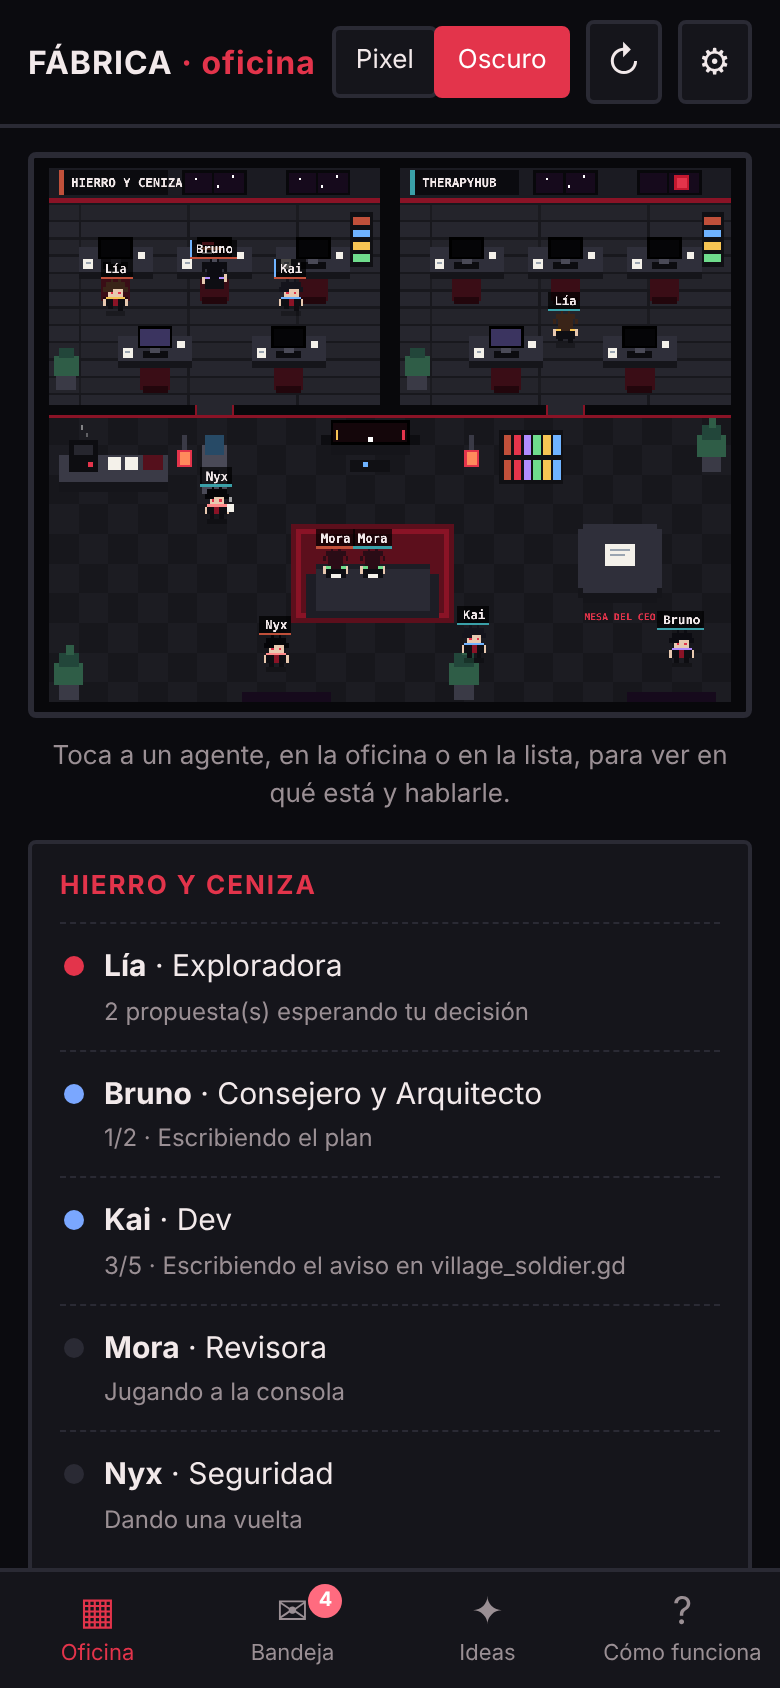
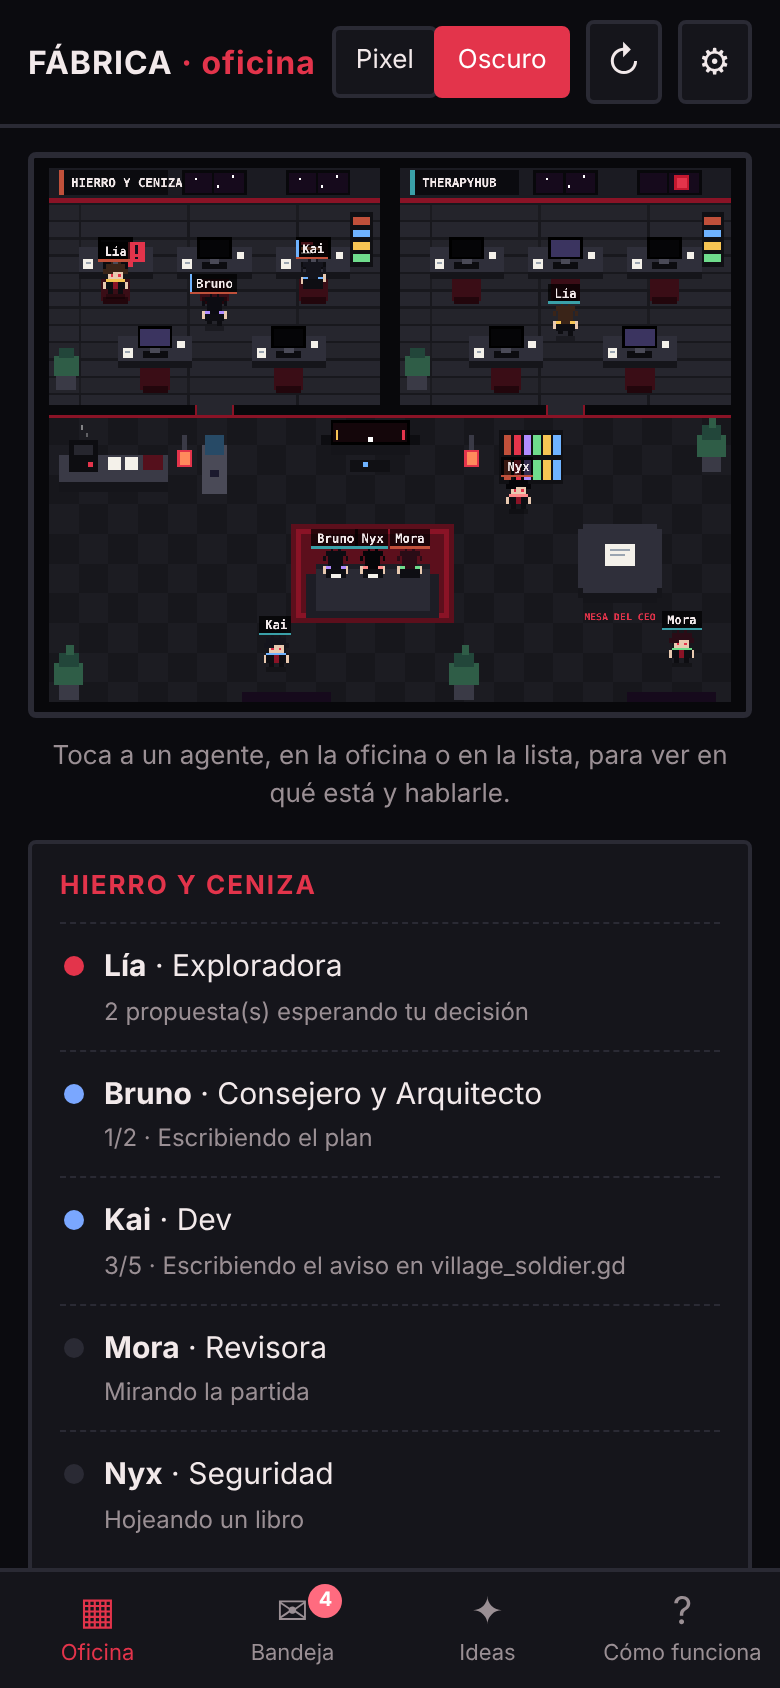
Ignorar en la oficina todo lo que no venga de la cuenta dueña

diff --git a/app.js b/app.js
@@ -64,22 +64,23 @@ async function load() {
   try {
     for (const R of REPOS) {
       const [issues, pulls] = await Promise.all([gh(`${R.name}/issues?state=open&per_page=100`), gh(`${R.name}/pulls?state=open&per_page=50`)]);
-      const fab = issues.filter(i => !i.pull_request && i.labels.some(l => l.name.startsWith('fabrica:')));
+      const fab = issues.filter(i => !i.pull_request && i.user && i.user.login === OWNER && i.labels.some(l => l.name.startsWith('fabrica:')));
       const bit = fab.find(i => has(i, 'bitacora'));
       const estados = {}; let notas = [];
       if (bit) {
         const since = new Date(Date.now() - 7 * 864e5).toISOString();
         const cs = await gh(`${R.name}/issues/${bit.number}/comments?since=${since}&per_page=100`);
         for (const c of cs) {
+          if (!c.user || c.user.login !== OWNER) continue; // solo lo escrito por la cuenta dueña cuenta como estado o bitácora
           const m = (c.body || '').match(/<!--\s*fabrica-estado:(\w+)\s*-->/);
           if (m) estados[m[1]] = {...parseEstado(c.body), updated: c.updated_at};
           else notas.push({at: c.created_at, body: c.body});
         }
         notas = notas.slice(-3).reverse();
       }
-      const prs = pulls.filter(p => p.head.ref.startsWith('fabrica/')).map(p => ({n: p.number, title: p.title, url: p.html_url, at: p.updated_at, ref: p.head.ref, veredicto: ''}));
+      const prs = pulls.filter(p => p.head.ref.startsWith('fabrica/') && p.user && p.user.login === OWNER && p.head.repo && p.head.repo.full_name === `${OWNER}/${R.name}`).map(p => ({n: p.number, title: p.title, url: p.html_url, at: p.updated_at, ref: p.head.ref, veredicto: ''}));
       for (const p of prs.slice(0, 3)) {
-        const rev = (await gh(`${R.name}/issues/${p.n}/comments?per_page=100`)).reverse().find(c => /VEREDICTO:/.test(c.body || ''));
+        const rev = (await gh(`${R.name}/issues/${p.n}/comments?per_page=100`)).reverse().find(c => c.user && c.user.login === OWNER && /VEREDICTO:/.test(c.body || ''));
         if (rev) p.veredicto = (rev.body.match(/VEREDICTO:\s*([A-ZÁÉÍÓÚÑ ]+)/) || [])[1] || '';
       }
       const slim = i => ({n: i.number, title: i.title, url: i.html_url, at: i.updated_at, comments: i.comments, body: (i.body || '').slice(0, 600)});
@@ -208,7 +209,7 @@ async function showThread(repo, n) {
   const box = $(`hilo-${repo}-${n}`); box.hidden = false; box.innerHTML = '<p class="empty">Cargando…</p>';
   try {
     const cs = await gh(`${repo}/issues/${n}/comments?per_page=100`);
-    box.innerHTML = (cs.map(c => `<div class="msg ${isBot(c) ? 'bot' : 'me'}"><b>${isBot(c) ? 'Consejero' : 'Tú'} · ${ago(c.created_at)}</b>${esc(c.body.replace(/^\s*🤖\s*[^:]*:\s*/, ''))}</div>`).join('') || '<p class="empty">El Consejero aún no responde. Lo hará en su turno, o háblale en vivo desde la oficina.</p>')
+    box.innerHTML = (cs.map(c => `<div class="msg ${isBot(c) ? 'bot' : 'me'}"><b>${c.user.login !== OWNER ? 'Cuenta externa @' + esc(c.user.login) + ' (los agentes la ignoran)' : isBot(c) ? 'Consejero' : 'Tú'} · ${ago(c.created_at)}</b>${esc(c.body.replace(/^\s*🤖\s*[^:]*:\s*/, ''))}</div>`).join('') || '<p class="empty">El Consejero aún no responde. Lo hará en su turno, o háblale en vivo desde la oficina.</p>')
       + `<form data-reply="${repo}/${n}"><label for="r-${repo}-${n}">Tu respuesta</label><textarea id="r-${repo}-${n}" required></textarea><button class="primary" type="submit">Responder</button></form>`;
   } catch (e) { box.innerHTML = `<p class="empty">${esc(e.message)}</p>`; }
 }

diff --git a/sw.js b/sw.js
@@ -1,4 +1,4 @@
-const C='fabrica-v3',SHELL=['./','style.css','scene.js','app.js','manifest.webmanifest','icon.svg','icon-192.png','icon-512.png'];
+const C='fabrica-v4',SHELL=['./','style.css','scene.js','app.js','manifest.webmanifest','icon.svg','icon-192.png','icon-512.png'];
 self.addEventListener('install',e=>{e.waitUntil(caches.open(C).then(c=>c.addAll(SHELL)));self.skipWaiting()});
 self.addEventListener('activate',e=>{e.waitUntil(caches.keys().then(k=>Promise.all(k.filter(x=>x!==C).map(x=>caches.delete(x)))));self.clients.claim()});
 self.addEventListener('fetch',e=>{const u=new URL(e.request.url);if(e.request.method!=='GET'||u.origin!==location.origin)return;
